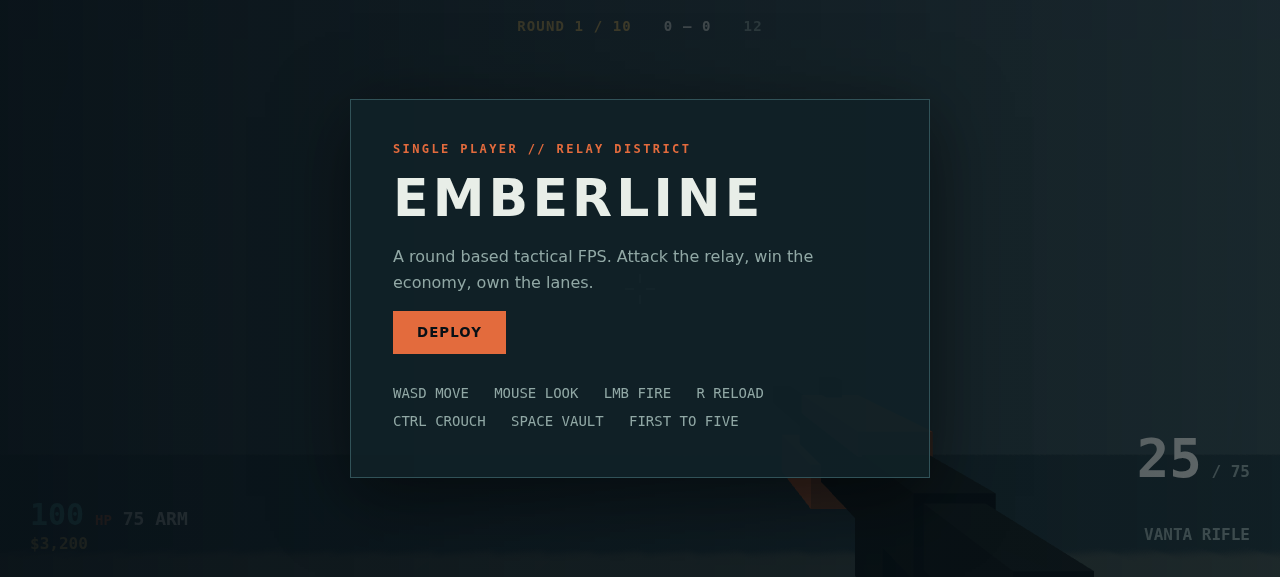
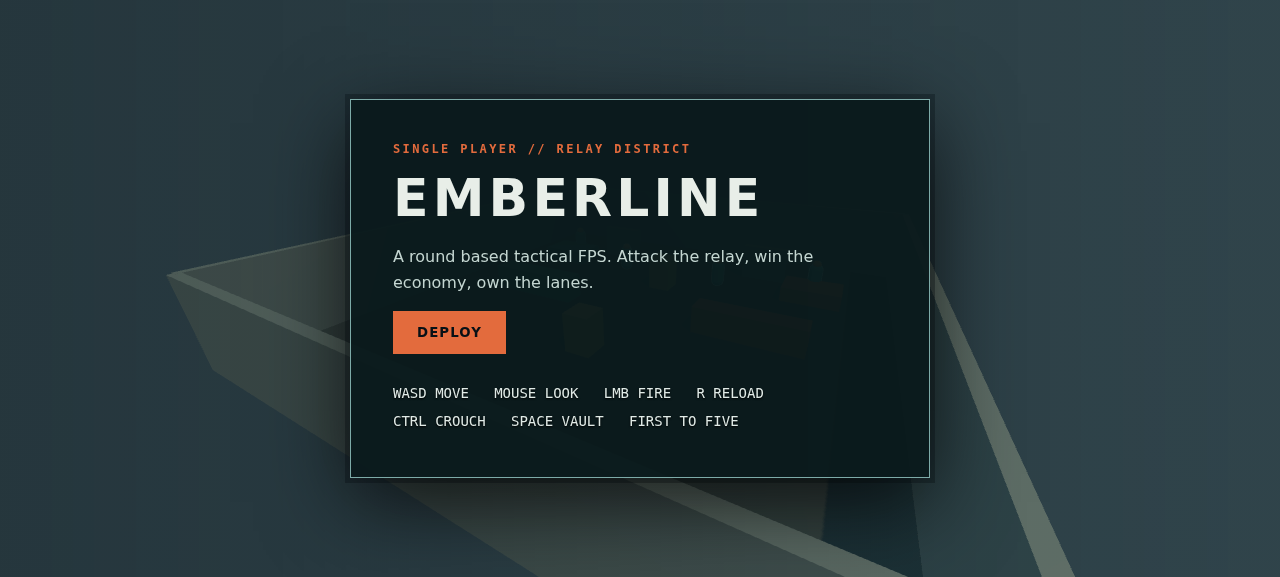
Polish EMBERLINE start framing and HUD readability

diff --git a/game/index.html b/game/index.html
@@ -1,1 +1,15 @@
-<!doctype html><html><head><meta charset="utf-8"><meta name="viewport" content="width=device-width,initial-scale=1"><title>EMBERLINE // Tactical FPS</title><style>:root{--bg:#071016;--panel:#102126;--line:#315258;--ink:#e8eee8;--muted:#91a8a5;--orange:#e36b3d;--gold:#f3c969;--teal:#57c5c0}*{box-sizing:border-box}html,body,#game,#game canvas{margin:0;width:100%;height:100%;overflow:hidden;background:var(--bg);color:var(--ink);font:14px system-ui,sans-serif}#game,#game canvas{position:fixed;inset:0}#hud{position:fixed;inset:0;pointer-events:none}.top{display:flex;justify-content:center;gap:32px;padding:18px;font:700 14px monospace;letter-spacing:.08em}.top span{color:var(--muted)}.top b{color:var(--ink)}#round{color:var(--gold)}.bottom{position:absolute;left:30px;right:30px;bottom:24px;display:flex;justify-content:space-between;align-items:end}.health{font:700 18px monospace}.health b{color:var(--teal);font-size:30px}.health i{color:var(--orange);font-style:normal;font-size:14px}.ammo{text-align:right;font:700 54px monospace}.ammo small{font-size:16px;color:var(--muted)}#money{color:var(--gold);font:700 16px monospace}.cross{position:absolute;left:50%;top:50%;width:30px;height:30px;transform:translate(-50%,-50%)}.cross i{position:absolute;background:#fff;box-shadow:0 0 5px #000}.cross i:nth-child(1){left:14px;top:0;width:2px;height:9px}.cross i:nth-child(2){left:14px;bottom:0;width:2px;height:9px}.cross i:nth-child(3){top:14px;left:0;width:9px;height:2px}.cross i:nth-child(4){top:14px;right:0;width:9px;height:2px}#hit{position:absolute;left:50%;top:50%;width:26px;height:26px;border:3px solid var(--gold);transform:translate(-50%,-50%) rotate(45deg);opacity:0}#hit.on{opacity:1}.feed{position:absolute;right:30px;top:55px;color:var(--gold);font:12px monospace}.feed span{color:var(--orange)}.overlay{position:fixed;inset:0;display:grid;place-items:center;background:linear-gradient(90deg,#071016ee,#07101699);pointer-events:auto}.overlay[hidden]{display:none}.panel{width:min(580px,90%);padding:42px;border:1px solid var(--line);background:#102126eF;box-shadow:0 18px 70px #0008}.eyebrow{color:var(--orange);letter-spacing:.2em;font:bold 12px monospace}.panel h1{font-size:52px;letter-spacing:.08em;margin:12px 0 8px;color:var(--ink)}.panel p{color:var(--muted);font-size:16px;line-height:1.6;max-width:48ch}.panel button{background:var(--orange);border:0;padding:14px 24px;color:#071016;font-weight:800;letter-spacing:.08em;cursor:pointer}.keys{margin-top:25px;color:var(--muted);font-family:monospace;line-height:2}@media(max-width:700px){.panel h1{font-size:36px}} </style></head><body><div id="game"></div><div id="hud"><div class="top"><span id="round">ROUND 1 / 10</span><b id="score">0 — 0</b><span id="timer">12</span></div><div class="feed" id="feed"></div><div class="cross"><i></i><i></i><i></i><i></i></div><div id="hit"></div><div class="bottom"><div class="health"><b id="hp">100</b> <i>HP</i> <span id="armor">75</span> ARM<br><span id="money">$3,200</span></div><div class="ammo"><span id="mag">25</span><small> / <span id="reserve">75</span><br>VANTA RIFLE</small></div></div></div><div class="overlay" id="overlay"><section class="panel"><div class="eyebrow">SINGLE PLAYER // RELAY DISTRICT</div><h1 id="overlay-title">EMBERLINE</h1><p id="overlay-copy">A round based tactical FPS. Attack the relay, win the economy, own the lanes.</p><button id="play">DEPLOY</button><div class="keys">WASD MOVE &nbsp; MOUSE LOOK &nbsp; LMB FIRE &nbsp; R RELOAD<br>CTRL CROUCH &nbsp; SPACE VAULT &nbsp; FIRST TO FIVE</div></section></div><script type="importmap">{"imports":{"three":"./vendor/three/three.module.min.js"}}</script><script type="module" src="./src/main.js"></script></body></html>
+<!doctype html><html><head><meta charset="utf-8"><meta name="viewport" content="width=device-width,initial-scale=1"><title>EMBERLINE // Tactical FPS</title><style>:root{--bg:#071016;--panel:#102126;--line:#315258;--ink:#e8eee8;--muted:#91a8a5;--orange:#e36b3d;--gold:#f3c969;--teal:#57c5c0}*{box-sizing:border-box}html,body,#game,#game canvas{margin:0;width:100%;height:100%;overflow:hidden;background:var(--bg);color:var(--ink);font:14px system-ui,sans-serif}#game,#game canvas{position:fixed;inset:0}#hud{position:fixed;inset:0;pointer-events:none}.top{display:flex;justify-content:center;gap:32px;padding:18px;font:700 14px monospace;letter-spacing:.08em}.top span{color:var(--muted)}.top b{color:var(--ink)}#round{color:var(--gold)}.bottom{position:absolute;left:30px;right:30px;bottom:24px;display:flex;justify-content:space-between;align-items:end}.health{font:700 18px monospace}.health b{color:var(--teal);font-size:30px}.health i{color:var(--orange);font-style:normal;font-size:14px}.ammo{text-align:right;font:700 54px monospace}.ammo small{font-size:16px;color:var(--muted)}#money{color:var(--gold);font:700 16px monospace}.cross{position:absolute;left:50%;top:50%;width:30px;height:30px;transform:translate(-50%,-50%)}.cross i{position:absolute;background:#fff;box-shadow:0 0 5px #000}.cross i:nth-child(1){left:14px;top:0;width:2px;height:9px}.cross i:nth-child(2){left:14px;bottom:0;width:2px;height:9px}.cross i:nth-child(3){top:14px;left:0;width:9px;height:2px}.cross i:nth-child(4){top:14px;right:0;width:9px;height:2px}#hit{position:absolute;left:50%;top:50%;width:26px;height:26px;border:3px solid var(--gold);transform:translate(-50%,-50%) rotate(45deg);opacity:0}#hit.on{opacity:1}.feed{position:absolute;right:30px;top:55px;color:var(--gold);font:12px monospace}.feed span{color:var(--orange)}.overlay{position:fixed;inset:0;display:grid;place-items:center;background:linear-gradient(90deg,#071016ee,#07101699);pointer-events:auto}.overlay[hidden]{display:none}.panel{width:min(580px,90%);padding:42px;border:1px solid var(--line);background:#102126eF;box-shadow:0 18px 70px #0008}.eyebrow{color:var(--orange);letter-spacing:.2em;font:bold 12px monospace}.panel h1{font-size:52px;letter-spacing:.08em;margin:12px 0 8px;color:var(--ink)}.panel p{color:var(--muted);font-size:16px;line-height:1.6;max-width:48ch}.panel button{background:var(--orange);border:0;padding:14px 24px;color:#071016;font-weight:800;letter-spacing:.08em;cursor:pointer}.keys{margin-top:25px;color:var(--muted);font-family:monospace;line-height:2}@media(max-width:700px){.panel h1{font-size:36px}}
+/* Keep interface text readable against the arena's lit surfaces. */
+#hud[hidden]{display:none}
+.top,.health,.feed{text-shadow:0 2px 4px #000,0 0 12px #071016}
+.top span{color:#d5e3df}
+.health{padding:12px 16px;background:#071016ed;border-left:3px solid var(--teal);color:#f0f6f2}
+.health b{color:#86e9df}.health i{color:#ffab82}
+#money{display:inline-block;margin-top:6px;color:#ffdc88}
+.ammo{position:fixed;right:30px;top:90px;padding:10px 16px;background:#071016ed;border-right:3px solid var(--orange);font-size:44px}
+.ammo small{color:#e0ebe7;font-size:14px;line-height:1.6}
+.overlay{background:linear-gradient(90deg,#07101655,#07101618)}
+.panel{background:#09191bf5;border:1px solid #7daba8;box-shadow:0 24px 80px #000b,0 0 0 5px #07101655}
+.panel p{color:#c4d6d1}
+.keys{color:#e1ebe7;text-shadow:0 1px 2px #000}
+</style></head><body><div id="game"></div><div id="hud"><div class="top"><span id="round">ROUND 1 · FIRST TO FIVE</span><b id="score">0 — 0</b><span id="timer">TIME 12</span></div><div class="feed" id="feed"></div><div class="cross"><i></i><i></i><i></i><i></i></div><div id="hit"></div><div class="bottom"><div class="health"><b id="hp">100</b> <i>HP</i> <span id="armor">75</span> ARM<br><span id="money">$3,200</span></div><div class="ammo"><span id="mag">25</span><small> / <span id="reserve">75</span><br>VANTA RIFLE</small></div></div></div><div class="overlay" id="overlay"><section class="panel"><div class="eyebrow">SINGLE PLAYER // RELAY DISTRICT</div><h1 id="overlay-title">EMBERLINE</h1><p id="overlay-copy">A round based tactical FPS. Attack the relay, win the economy, own the lanes.</p><button id="play">DEPLOY</button><div class="keys">WASD MOVE &nbsp; MOUSE LOOK &nbsp; LMB FIRE &nbsp; R RELOAD<br>CTRL CROUCH &nbsp; SPACE VAULT &nbsp; FIRST TO FIVE</div></section></div><script type="importmap">{"imports":{"three":"./vendor/three/three.module.min.js"}}</script><script type="module" src="./src/main.js"></script></body></html>

diff --git a/game/src/main.js b/game/src/main.js
@@ -17,7 +17,13 @@ const scene=new THREE.Scene();scene.background=new THREE.Color(PALETTE.void);sce
 const camera=new THREE.PerspectiveCamera(72,innerWidth/innerHeight,.05,100);scene.add(camera);
 const world=createWorld(scene),nav=createNav(),player=createPlayer(world.colliders),weapon=createWeapon(camera),input=createInput(renderer.domElement),hud=createHud(),rounds=createRounds(),audio=createAudio(),bots=createBots(scene,nav,world.shootables,random),ray=new THREE.Raycaster();
 let feed='',running=false,manualFrame=false,last=performance.now();
-function aim(){camera.position.set(player.state.position.x,player.state.position.y+player.state.eye,player.state.position.z);camera.rotation.set(player.state.pitch,player.state.yaw,0,'YXZ');}
+function aim(){
+ if(rounds.state.phase==='menu'){
+  camera.position.set(9,9,16);camera.lookAt(-1,0,-3);
+  return;
+ }
+ camera.position.set(player.state.position.x,player.state.position.y+player.state.eye,player.state.position.z);camera.rotation.set(player.state.pitch,player.state.yaw,0,'YXZ');
+}
 function shoot(){if(!weapon.ready())return;weapon.fire();audio.shot();camera.getWorldDirection(ray.ray.direction);ray.set(camera.position,ray.ray.direction);const hit=ray.intersectObjects(bots.list.filter(b=>b.alive).flatMap(b=>[b.body,b.head]),false)[0];if(hit){const b=hit.object.userData.bot;b.hp-=hit.object===b.head?100:34;hud.hit();if(b.hp<=0){b.alive=false;b.group.visible=false;feed=`<b>EMBER</b> eliminated <span>RIVAL ${bots.list.indexOf(b)+1}</span>`;audio.round();if(bots.list.every(x=>!x.alive))endRound(0);}}player.recoil();}
 function endRound(team){rounds.win(team);running=false;input.state.firing=false;hud.overlay(rounds.state.phase,'ROUND WIN',team===0?'Relay secured. Your squad owns the lane.':'The opposing squad controls the relay.');}
 function buyShop(){if(rounds.state.phase==='buy'&&rounds.buy(2700)){weapon.state.capacity=30;weapon.state.mag=30;weapon.state.reserve=90;feed='<b>SHOP</b> VANTA rifle equipped';}}
@@ -28,7 +34,7 @@ function renderScene(){
  renderer.autoClear=false;
  camera.layers.set(0);renderer.clear();renderer.render(scene,camera);
  const background=scene.background;scene.background=null;
- renderer.clearDepth();camera.layers.set(1);renderer.render(scene,camera);
+ if(rounds.state.phase!=='menu'){renderer.clearDepth();camera.layers.set(1);renderer.render(scene,camera);}
  camera.layers.set(0);scene.background=background;
 }
 function renderOnce(){aim();if(shot==='play')weapon.flash.visible=true;renderScene();manualFrame=Boolean(shot);window.__shotReady=true;}

diff --git a/game/src/hud.js b/game/src/hud.js
@@ -4,11 +4,11 @@ export function createHud(){
     set(data){
       $('hp').textContent=Math.max(0,Math.ceil(data.hp));$('armor').textContent=Math.max(0,Math.ceil(data.armor));
       $('mag').textContent=data.mag;$('reserve').textContent=data.reserve;$('money').textContent='$'+data.money.toLocaleString();
-      $('timer').textContent=Math.ceil(data.time).toString().padStart(2,'0');$('round').textContent=`ROUND ${data.round} / 10`;
+      $('timer').textContent=`TIME ${Math.ceil(data.time).toString().padStart(2,'0')}`;$('round').textContent=`ROUND ${data.round} · FIRST TO FIVE`;
       $('score').textContent=`${data.score[0]} — ${data.score[1]}`;$('feed').innerHTML=data.feed||'';
     },
-    overlay(mode,title,copy){$('overlay-title').textContent=title;$('overlay-copy').textContent=copy;$('play').textContent=mode==='buy'?'START ROUND':mode==='start'?'DEPLOY':'CONTINUE';overlay.hidden=false;},
-    hide(){overlay.hidden=true;},
+    overlay(mode,title,copy){$('overlay-title').textContent=title;$('overlay-copy').textContent=copy;$('play').textContent=mode==='buy'?'START ROUND':mode==='start'?'DEPLOY':'CONTINUE';overlay.hidden=false;$('hud').hidden=mode==='start';overlay.dataset.mode=mode;},
+    hide(){overlay.hidden=true;$('hud').hidden=false;},
     onPlay(fn){$('play').onclick=fn;},
     hit(){const x=$('hit');x.classList.add('on');setTimeout(()=>x.classList.remove('on'),120);},
   };
